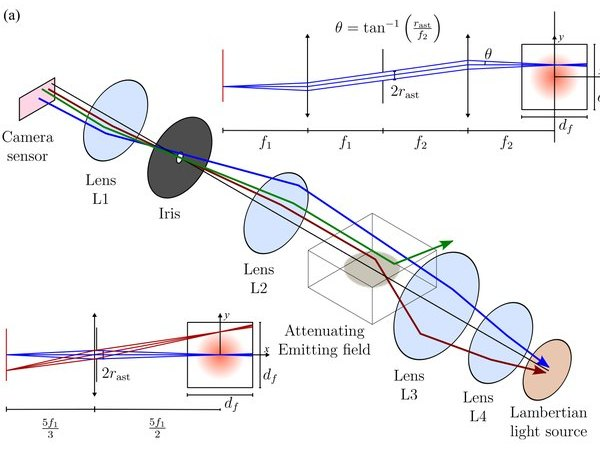
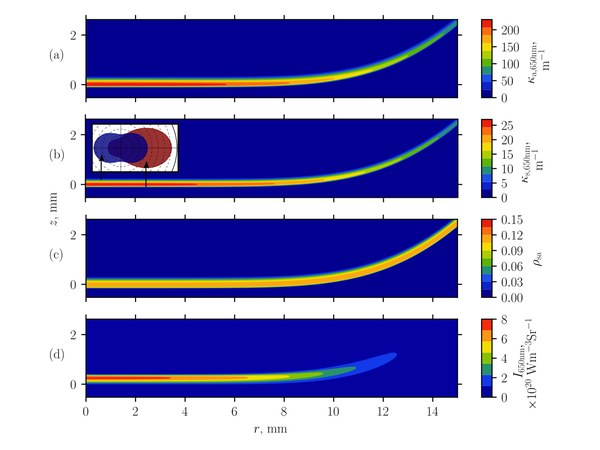
Figures and thumbnails from the published papers (with credits): contrail and burner schematics on project pages; new publication thumbnails incl. JFS

diff --git a/_projects/1_project.md b/_projects/1_project.md
@@ -24,6 +24,12 @@ So we decided to make contrails in the lab. At UTIAS, in a project with Pratt & 
 
 The exhaust can come from an inverted coflow soot generator or from model gas-turbine combustors burning Jet-A1, sustainable aviation fuels or hydrogen, and the bypass flow can be run mixed or unmixed. That lets us change one thing at a time (the fuel, the amount of soot, the water vapor) and see what it does to the contrail.
 
+<div class="row">
+  <div class="col-sm mt-3 mt-md-0">
+    {% include figure.liquid loading="lazy" path="assets/img/contrail_schematic_proci2026.png" alt="Schematic of the contrail experiment: soot generator, heated core flow, tunnel, laser sheet, camera and sampling system" caption="How an experiment runs: exhaust from the soot generator is heated and fed through the core nozzle into the cold, low-pressure ambient flow. A laser sheet and a polarization-resolved camera image the contrail, and sampling lines take the soot to electron microscopy and a mobility sizer. Figure from Roy, Sawanni et al., Proc. Combust. Inst. 42 (2026) 106485 (CC BY-NC-ND 4.0)." class="img-fluid rounded z-depth-1" %}
+  </div>
+</div>
+
 So far we have imaged the contrails with 2D elastic light scattering and Stokes polarimetry, and characterized the soot with mobility sizing and electron microscopy. The facility also integrates laser-induced incandescence, multi-angle light scattering, shadowgraphy and diffraction-based particle sizing, and a wavelength-modulated laser absorption (TDLAS) sensor for water vapor is being developed. Turning scattering images into ice number and size is not yet possible, so we pair the measurements with simulations to see where in the jet the air becomes supersaturated.
 
 <div class="row">

diff --git a/_projects/2_project.md b/_projects/2_project.md
@@ -22,6 +22,13 @@ For my Ph.D. I designed and built a counterflow burner, housed inside a high-pre
 
 ## Experiments and diagnostics
 
+<div class="row">
+  <div class="col-sm mt-3 mt-md-0">
+    {% include figure.liquid loading="lazy" path="assets/img/counterflow_schematic_proci2024.png" alt="Schematic of the counterflow burner nozzle and assembly, the flame between the nozzles, and the gas-handling system" caption="(a) One burner nozzle and the full burner assembly. (b) The counterflow flame between the two nozzles, with the gas and particle stagnation planes. (c) The gas-handling system. Figure from Sawanni and Gülder, Proc. Combust. Inst. 40 (2024) 105745 (CC BY-NC-ND 4.0)." class="img-fluid rounded z-depth-1" %}
+  </div>
+</div>
+
+
 So far I have mostly used it for soot-forming ethylene flames, changing the strain rate, residence time, pressure and dilution one at a time. It can also run soot formation–oxidation and non-sooting flames, and other fuels such as propane and hydrogen blends.
 
 To measure soot, I developed a diffuse-light modulated absorption–emission imaging technique at several wavelengths, which maps soot concentration, soot maturity and temperature across the flame. An open-source 1D detailed-chemistry solver (OpenSMOKE++) then reproduces the flame chemistry and fills in what the experiments can't measure, with 2D OpenFOAM simulations of the flow setting its inflow conditions.
